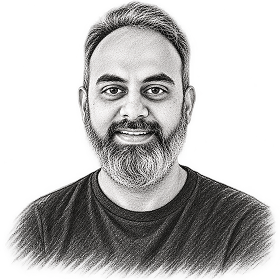
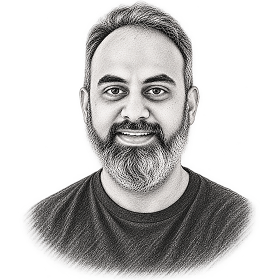
Update the hover portrait to the latest sketch version
Also bumps the <img src> cache-bust to ?v=4 since the file's path
never changes, so browsers/CDN would otherwise keep serving the old
bytes under the same URL.

Changed region(s): [[0.0286, 0.0, 1.0, 1.0]]

diff --git a/index.html b/index.html
@@ -47,7 +47,7 @@
               <h1 class="name" data-name></h1>
             </div>
             <p class="role" data-role></p>
-            <img class="name-portrait" src="assets/img/mahesh-sketch.png?v=3" alt="" aria-hidden="true" />
+            <img class="name-portrait" src="assets/img/mahesh-sketch.png?v=4" alt="" aria-hidden="true" />
           </div>
         </div>
 
